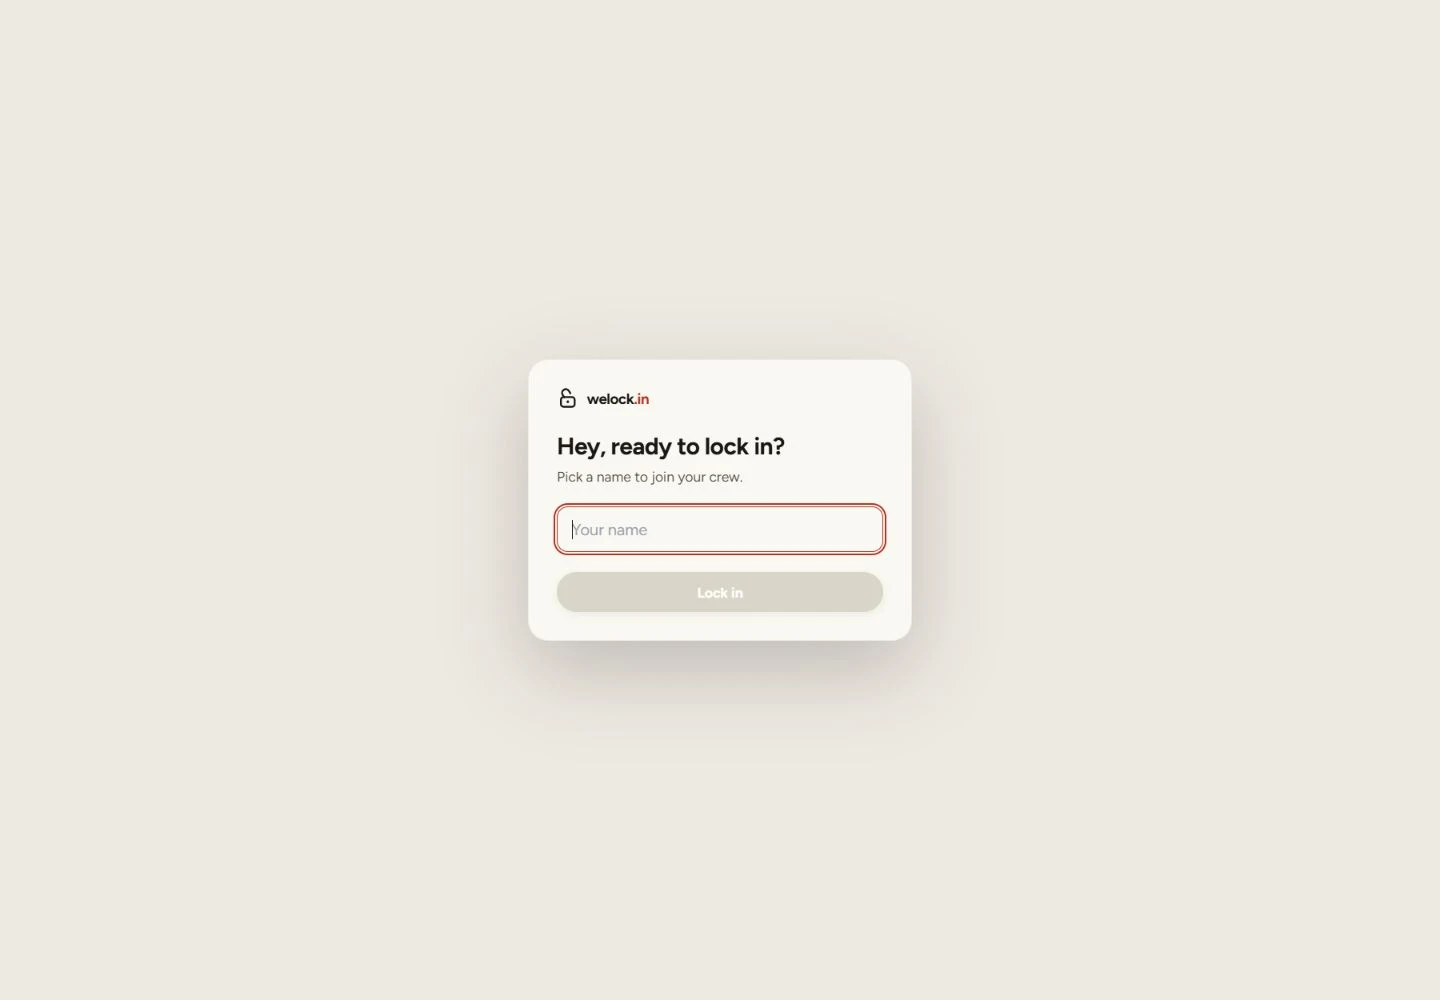
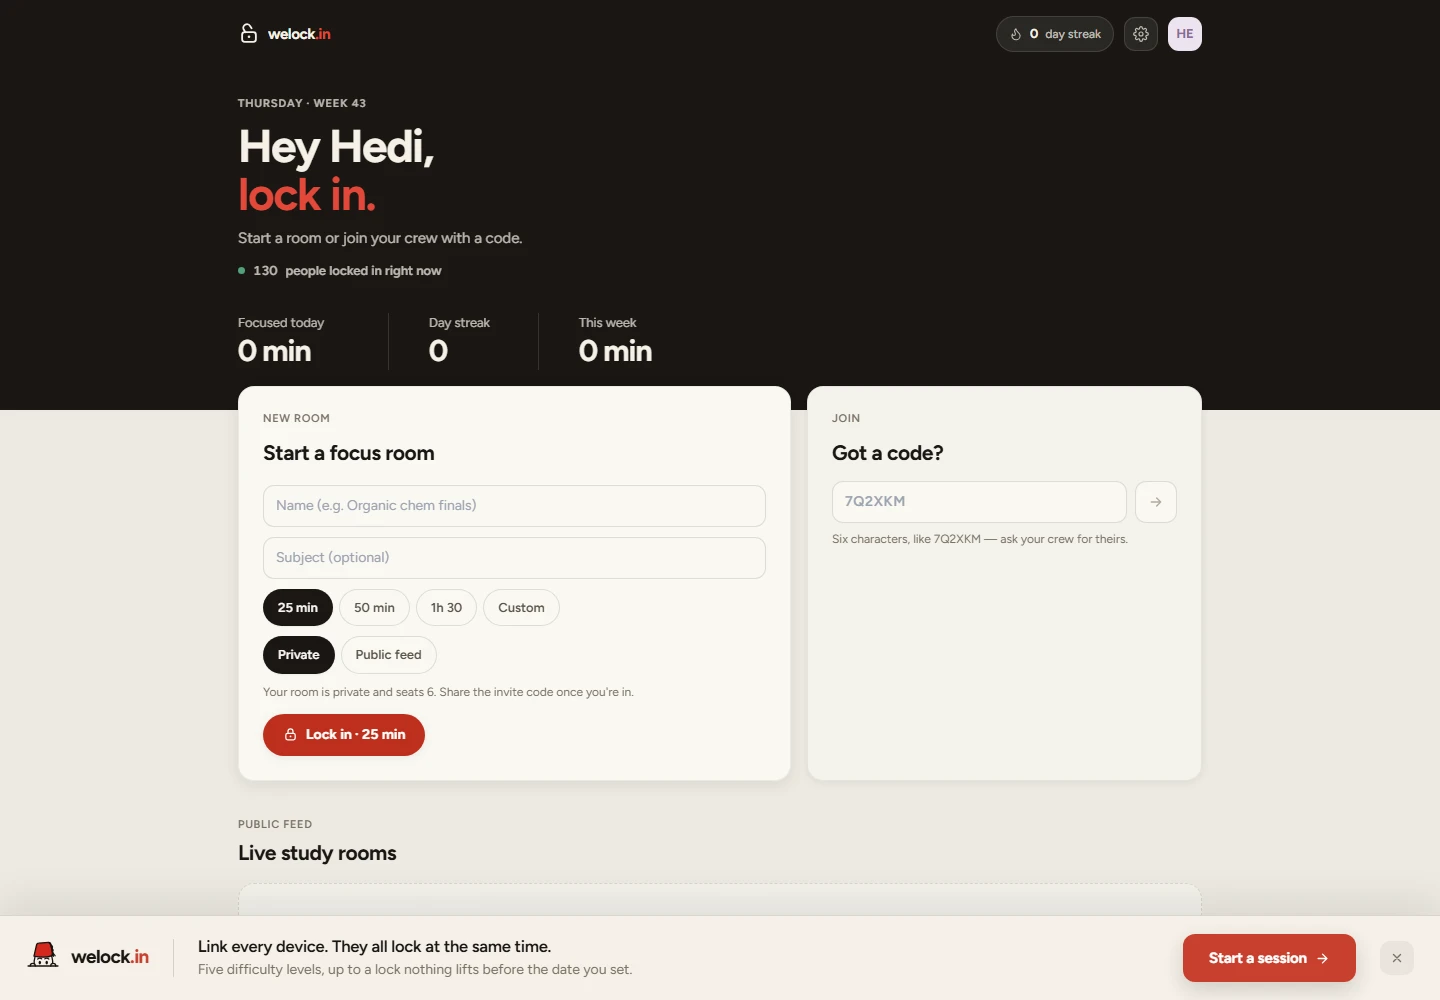
Unify WeLockIn project and refresh WeLock homepage preview

diff --git a/libs/data.js b/libs/data.js
@@ -9,6 +9,7 @@ import eight from "@/public/projects/8.png";
 import nine from "@/public/projects/9.png";
 import ten from "@/public/projects/10.png";
 import saudadePhoto from "@/public/images/Work/saudade-qr-detail.webp";
+import welockPreview from "@/public/previews/welock.webp";
 
 export const links = [
   {
@@ -73,6 +74,7 @@ export const projectsData = [
     id: "welockin",
     title: "WeLockIn",
     category: "desktop",
+    categories: ["desktop", "mobile"],
     status: "Desktop app · iOS on the App Store",
     description:
       "I’m building WeLockIn, a desktop app that helps students stay focused during their work sessions. Its website introduces the app, and an iOS version is also available on the App Store.",
@@ -84,6 +86,8 @@ export const projectsData = [
     previewType: "website",
     previewDomain: "welock.in",
     link: "https://welock.in/",
+    appStoreLink: "https://apps.apple.com/us/app/welockin-lock-in-study/id6796330736",
+    appStoreLabel: "See on App Store",
     accent: "#7568b5",
   },
   {
@@ -96,8 +100,8 @@ export const projectsData = [
     role: "Product creation · Development",
     outcome: "Study rooms without an account",
     tags: ["Student tools", "Study rooms", "Web app"],
-    imageUrl: "/previews/welock.webp",
-    imageAlt: "Homepage screenshot of WeLock",
+    imageUrl: welockPreview,
+    imageAlt: "WeLock study-room homepage",
     previewType: "website",
     previewDomain: "welock.app",
     link: "https://welock.app/",
@@ -223,21 +227,6 @@ export const projectsData = [
     previewDomain: "lilidecoai-web.vercel.app",
     link: "https://lilidecoai-web.vercel.app/",
     accent: "#8c745c",
-  },
-  {
-    id: "welockin-mobile",
-    title: "WeLockIn Mobile",
-    category: "mobile",
-    status: "iOS on the App Store",
-    description:
-      "I built the iOS version of WeLockIn, extending the desktop focus app I created for students to their phones. It is available on the App Store.",
-    role: "Mobile app development",
-    outcome: "Available on iOS",
-    tags: ["Student tools", "Focus", "iOS"],
-    imageUrl: null,
-    link: "https://welock.in/",
-    appStoreLink: "https://apps.apple.com/us/app/welockin-lock-in-study/id6796330736",
-    accent: "#7568b5",
   },
   {
     id: "forbes-ranking",

diff --git a/components/elements/ProjectCard.js b/components/elements/ProjectCard.js
@@ -4,7 +4,7 @@ import { ArrowUpRight, Globe } from "lucide-react";
 import * as m from "framer-motion/m";
 import { useReducedMotion } from "framer-motion";
 
-export default function ProjectCard({ title, description, role, outcome, tags, imageUrl, imageAlt, imageFit, imagePosition, previewType, previewDomain, link, status, appStoreLink }) {
+export default function ProjectCard({ title, description, role, outcome, tags, imageUrl, imageAlt, imageFit, imagePosition, previewType, previewDomain, link, status, appStoreLink, appStoreLabel = "App Store (iOS)" }) {
   const reduceMotion = useReducedMotion();
   const isWebsite = previewType === "website" && Boolean(imageUrl);
   const linkFeedback = reduceMotion ? {} : { whileHover: { scale: 1.025 }, whileTap: { scale: 0.98 } };
@@ -33,7 +33,7 @@ export default function ProjectCard({ title, description, role, outcome, tags, i
         <ul className="project-tags" aria-label={`${title} details`}>{tags.map((tag) => <li key={tag}>{tag}</li>)}</ul>
         {appStoreLink && <p className="project-availability">Available on iOS. Android is not available yet.</p>}
         {(link || appStoreLink) && <div className="project-links">
-          {appStoreLink && <m.a href={appStoreLink} target="_blank" rel="noopener noreferrer" className="button button-primary" aria-label={`View ${title} on the App Store for iOS (opens in a new tab)`} {...linkFeedback} transition={{ duration: 0.15 }}>App Store (iOS) <ArrowUpRight size={16} aria-hidden="true" /></m.a>}
+          {appStoreLink && <m.a href={appStoreLink} target="_blank" rel="noopener noreferrer" className="button button-primary" aria-label={`${appStoreLabel}: ${title} (opens in a new tab)`} {...linkFeedback} transition={{ duration: 0.15 }}>{appStoreLabel} <ArrowUpRight size={16} aria-hidden="true" /></m.a>}
           {link && <m.a href={link} target="_blank" rel="noopener noreferrer" className={`button ${appStoreLink ? "button-secondary" : "button-primary"}`} aria-label={`Visit ${title} website (opens in a new tab)`} {...linkFeedback} transition={{ duration: 0.15 }}>{appStoreLink ? "Website" : "View Project"} <ArrowUpRight size={16} aria-hidden="true" /></m.a>}
         </div>}
       </div>

diff --git a/components/sections/Projects.js b/components/sections/Projects.js
@@ -15,15 +15,17 @@ const categories = [
   { id: "hackathon", label: "Hackathons" },
 ];
 
+const isInCategory = (project, id) => (project.categories ?? [project.category]).includes(id);
+
 const categoryCount = (id) => id === "all"
   ? projectsData.length + hackathonsData.length
-  : id === "hackathon" ? hackathonsData.length : projectsData.filter((project) => project.category === id).length;
+  : id === "hackathon" ? hackathonsData.length : projectsData.filter((project) => isInCategory(project, id)).length;
 
 export default function Projects() {
   const { ref } = useSectionInView("projects", 0.01);
   const [activeCategory, setActiveCategory] = useState("all");
   const reduceMotion = useReducedMotion();
-  const visibleProjects = projectsData.filter((project) => activeCategory === "all" || project.category === activeCategory);
+  const visibleProjects = projectsData.filter((project) => activeCategory === "all" || isInCategory(project, activeCategory));
   const showHackathons = activeCategory === "all" || activeCategory === "hackathon";
   const resultCount = visibleProjects.length + (showHackathons ? hackathonsData.length : 0);
   const activeLabel = categories.find((category) => category.id === activeCategory).label;

diff --git a/MAINTENANCE.md b/MAINTENANCE.md
@@ -3,7 +3,8 @@
 A personal portfolio built with Next.js, React, and Framer Motion. It presents
 client websites, TunisianPass, student tools, iOS apps, hackathons, and personal photos.
 WeLockIn is a desktop focus app; welock.in is its website. Its mobile version is
-available on the iOS App Store. WeLock (welock.app) is a separate web app for study rooms.
+available on the iOS App Store. Both versions share one project card with the website
+preview and an App Store link. WeLock (welock.app) is a separate web app for study rooms.
 It preserves the original section order, floating navigation, centered introduction,
 circular portrait in the hero, alternating project cards, and light/dark palette.
 The hero has a static warm background; short foreground animations and interaction
@@ -46,13 +47,20 @@ Update the public identity, metadata and genuine content modification date in
 `libs/seo.js`. See [SEO notes](docs/SEO.md) for configuration and validation.
 
 The Projects section has category filters: All projects, Websites (13), Mobile apps (4),
-Desktop apps (1), and Hackathons (2). All 20 entries are rendered by default, preserving
-their server-rendered content and the original alternating card layout. Category counts
+Desktop apps (1), and Hackathons (2). All 19 entries (17 projects and 2 hackathons) are
+rendered by default, preserving their server-rendered content and the original
+alternating card layout. Category counts
 come from the data, and the selected filter announces the number of results.
 Use `category: "website"`, `"mobile"`, or `"desktop"` in `libs/data.js`; hackathons
 remain in `hackathonsData`, with optional `projectLink` and `previewLink` fields.
+Projects can optionally provide a `categories` array instead of relying on their single
+`category`. WeLockIn uses `category: "desktop"` and `categories: ["desktop", "mobile"]`,
+so it appears in both relevant filters and only once in All projects. Filter counts
+therefore overlap and should not be added together.
 Mobile cards link directly to their iOS App Store pages and state that Android is not
 available yet. Development status still appears on projects that are in progress.
+The optional `appStoreLabel` changes the App Store button text; WeLockIn uses
+`"See on App Store"`, while other apps retain the default `"App Store (iOS)"`.
 The navigation and section order remain Home, About, Projects, Skills, Life, Contact.
 
 ## Contact
@@ -64,9 +72,11 @@ The visible address remains available for visitors who prefer to copy it.
 
 ## Website previews
 
-Nine authentic homepage captures were taken in the browser on 6 October 2026 at
+Nine authentic homepage captures were initially taken in the browser on 6 October 2026 at
 1440 × 1000. They are static snapshots, not live embedded sites. Clicking a preview
 opens the actual website. The local WebP copies avoid third-party requests on page load.
+The WeLock (welock.app) preview was refreshed on 22 October 2026 after entering a
+display name to reach the homepage. The other eight captures remain from 6 October 2026.
 
 | Preview | Source |
 | --- | --- |
@@ -82,8 +92,8 @@ opens the actual website. The local WebP copies avoid third-party requests on pa
 
 To refresh them, save matching JPG browser captures outside `public/`, then run
 `node scripts/prepare-site-previews.cjs /path/to/captures`. This compresses the files
-without cropping their content. Keep the Saudade photograph and WeLockIn Mobile
-wordmark unless the owner supplies a replacement.
+without cropping their content. Keep the Saudade photograph and the single WeLockIn
+project card's website preview unless the owner supplies a replacement.
 
 ## Content provenance
 
